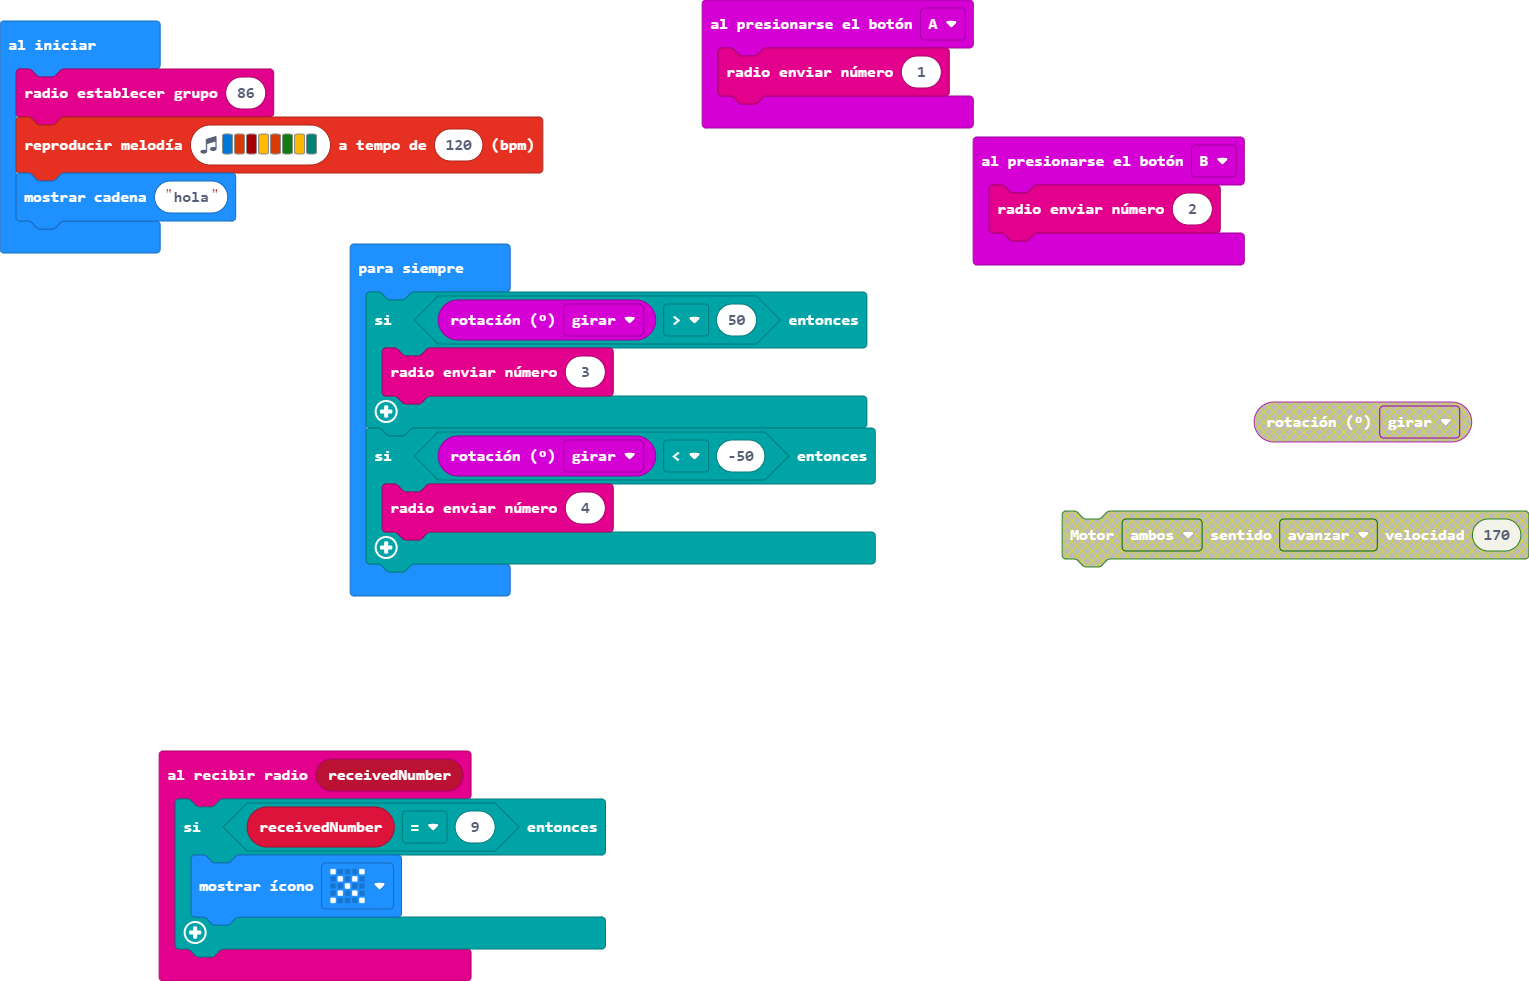
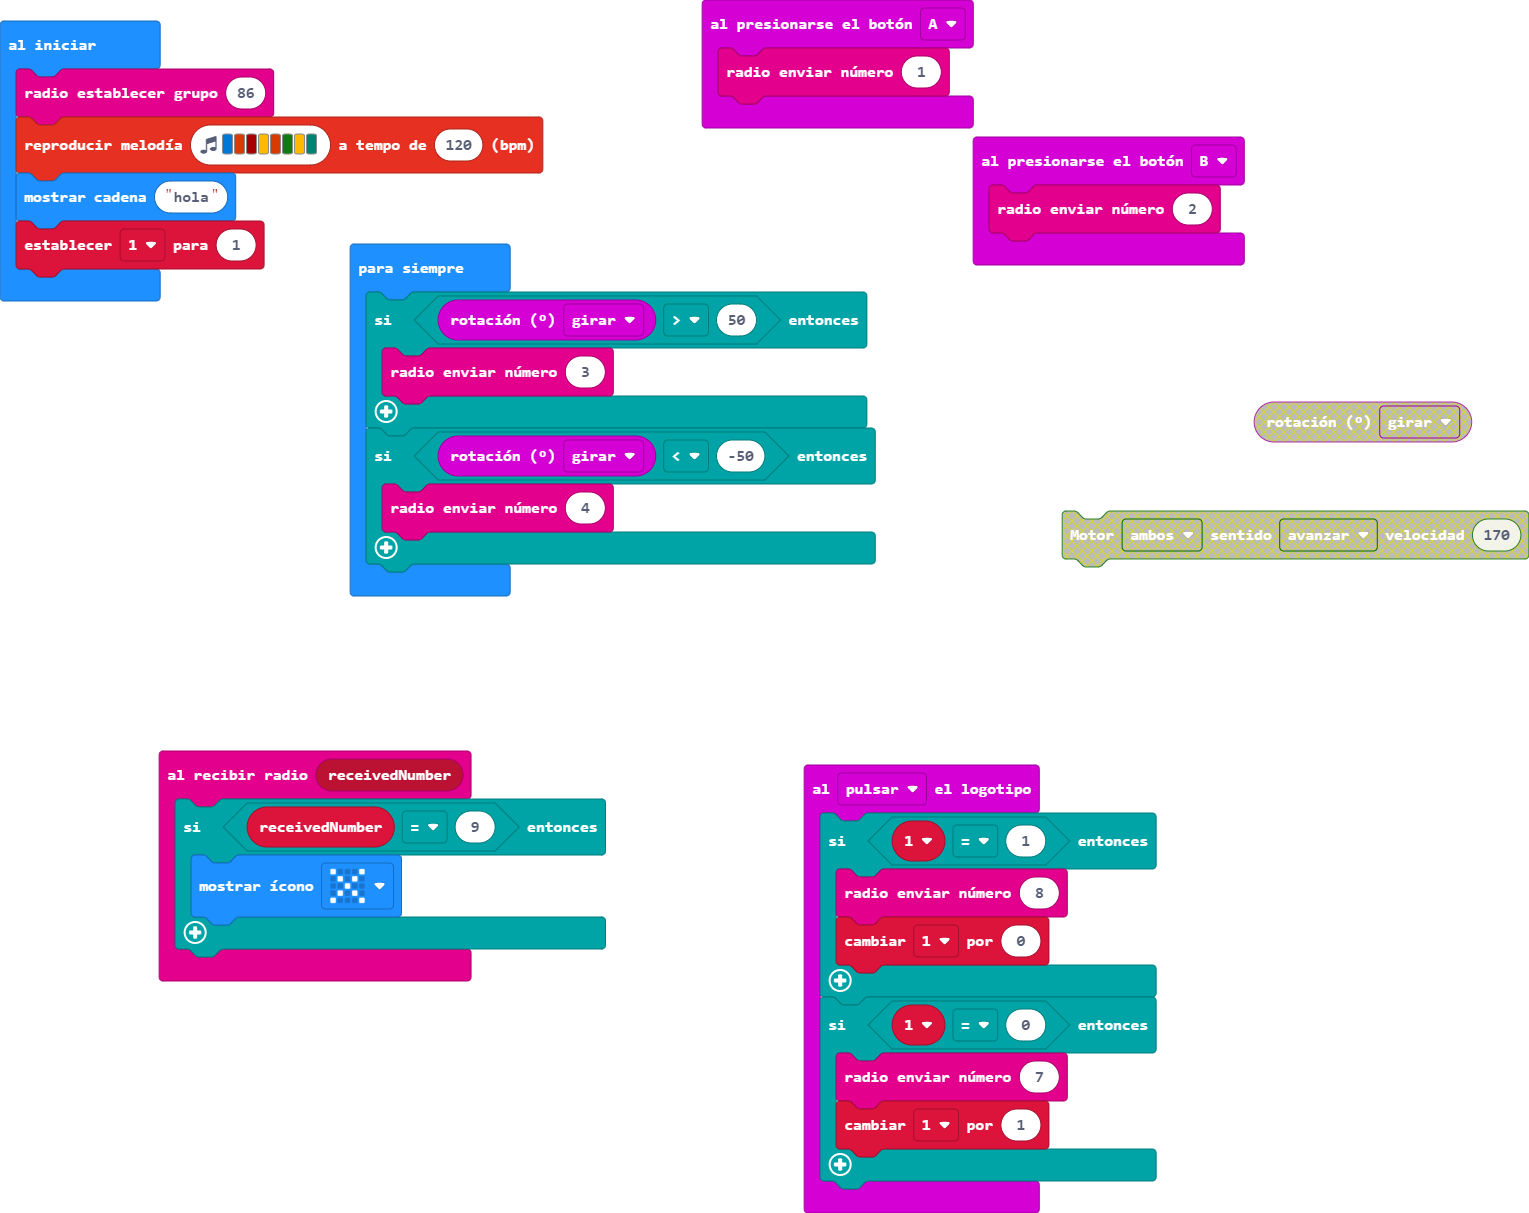
Actualizar main.blocks, main.ts

diff --git a/main.ts b/main.ts
@@ -3,15 +3,27 @@ radio.onReceivedNumber(function (receivedNumber) {
         basic.showIcon(IconNames.No)
     }
 })
+input.onLogoEvent(TouchButtonEvent.Pressed, function () {
+    if (_1 == 1) {
+        radio.sendNumber(8)
+        _1 += 0
+    }
+    if (_1 == 0) {
+        radio.sendNumber(7)
+        _1 += 1
+    }
+})
 input.onButtonPressed(Button.A, function () {
     radio.sendNumber(1)
 })
 input.onButtonPressed(Button.B, function () {
     radio.sendNumber(2)
 })
+let _1 = 0
 radio.setGroup(86)
 music.playMelody("E B C5 A B G A F ", 120)
 basic.showString("hola")
+_1 = 1
 basic.forever(function () {
     if (input.rotation(Rotation.Roll) > 50) {
         radio.sendNumber(3)
